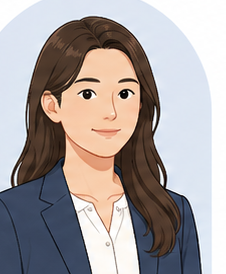
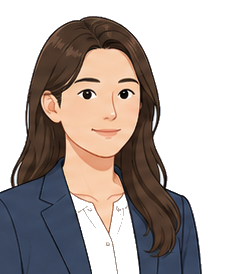
Put team-leader portraits on a filled navy tile (#20)
Remove the white background from the two case portraits (border flood
fill, preserving interior whites like shirts) and render each in a navy
rounded-square tile that the image fills edge to edge, so the person
sits on the brand navy backing.

Claude-Session: https://claude.ai/code/session_01Ug9xHYSUZJcBSvpufmvaX5

diff --git a/leader-efficacy-sim/src/app/page.tsx b/leader-efficacy-sim/src/app/page.tsx
@@ -154,13 +154,15 @@ export default function StartPage() {
                 ) : null}
 
                 <div className="flex items-center gap-4">
-                  <Image
-                    src={c.persona.profileImage}
-                    alt={c.persona.name}
-                    width={72}
-                    height={88}
-                    className="h-[88px] w-[72px] shrink-0 rounded-xl border border-hair object-cover"
-                  />
+                  <div className="relative h-[88px] w-[88px] shrink-0 overflow-hidden rounded-xl bg-navy">
+                    <Image
+                      src={c.persona.profileImage}
+                      alt={c.persona.name}
+                      fill
+                      sizes="88px"
+                      className="object-cover object-top"
+                    />
+                  </div>
                   <div className="min-w-0">
                     <p className="text-[17px] font-bold text-navy">{c.persona.name}</p>
                     <p className="mt-0.5 text-[12px] text-navy-muted">{c.persona.subtitle}</p>
